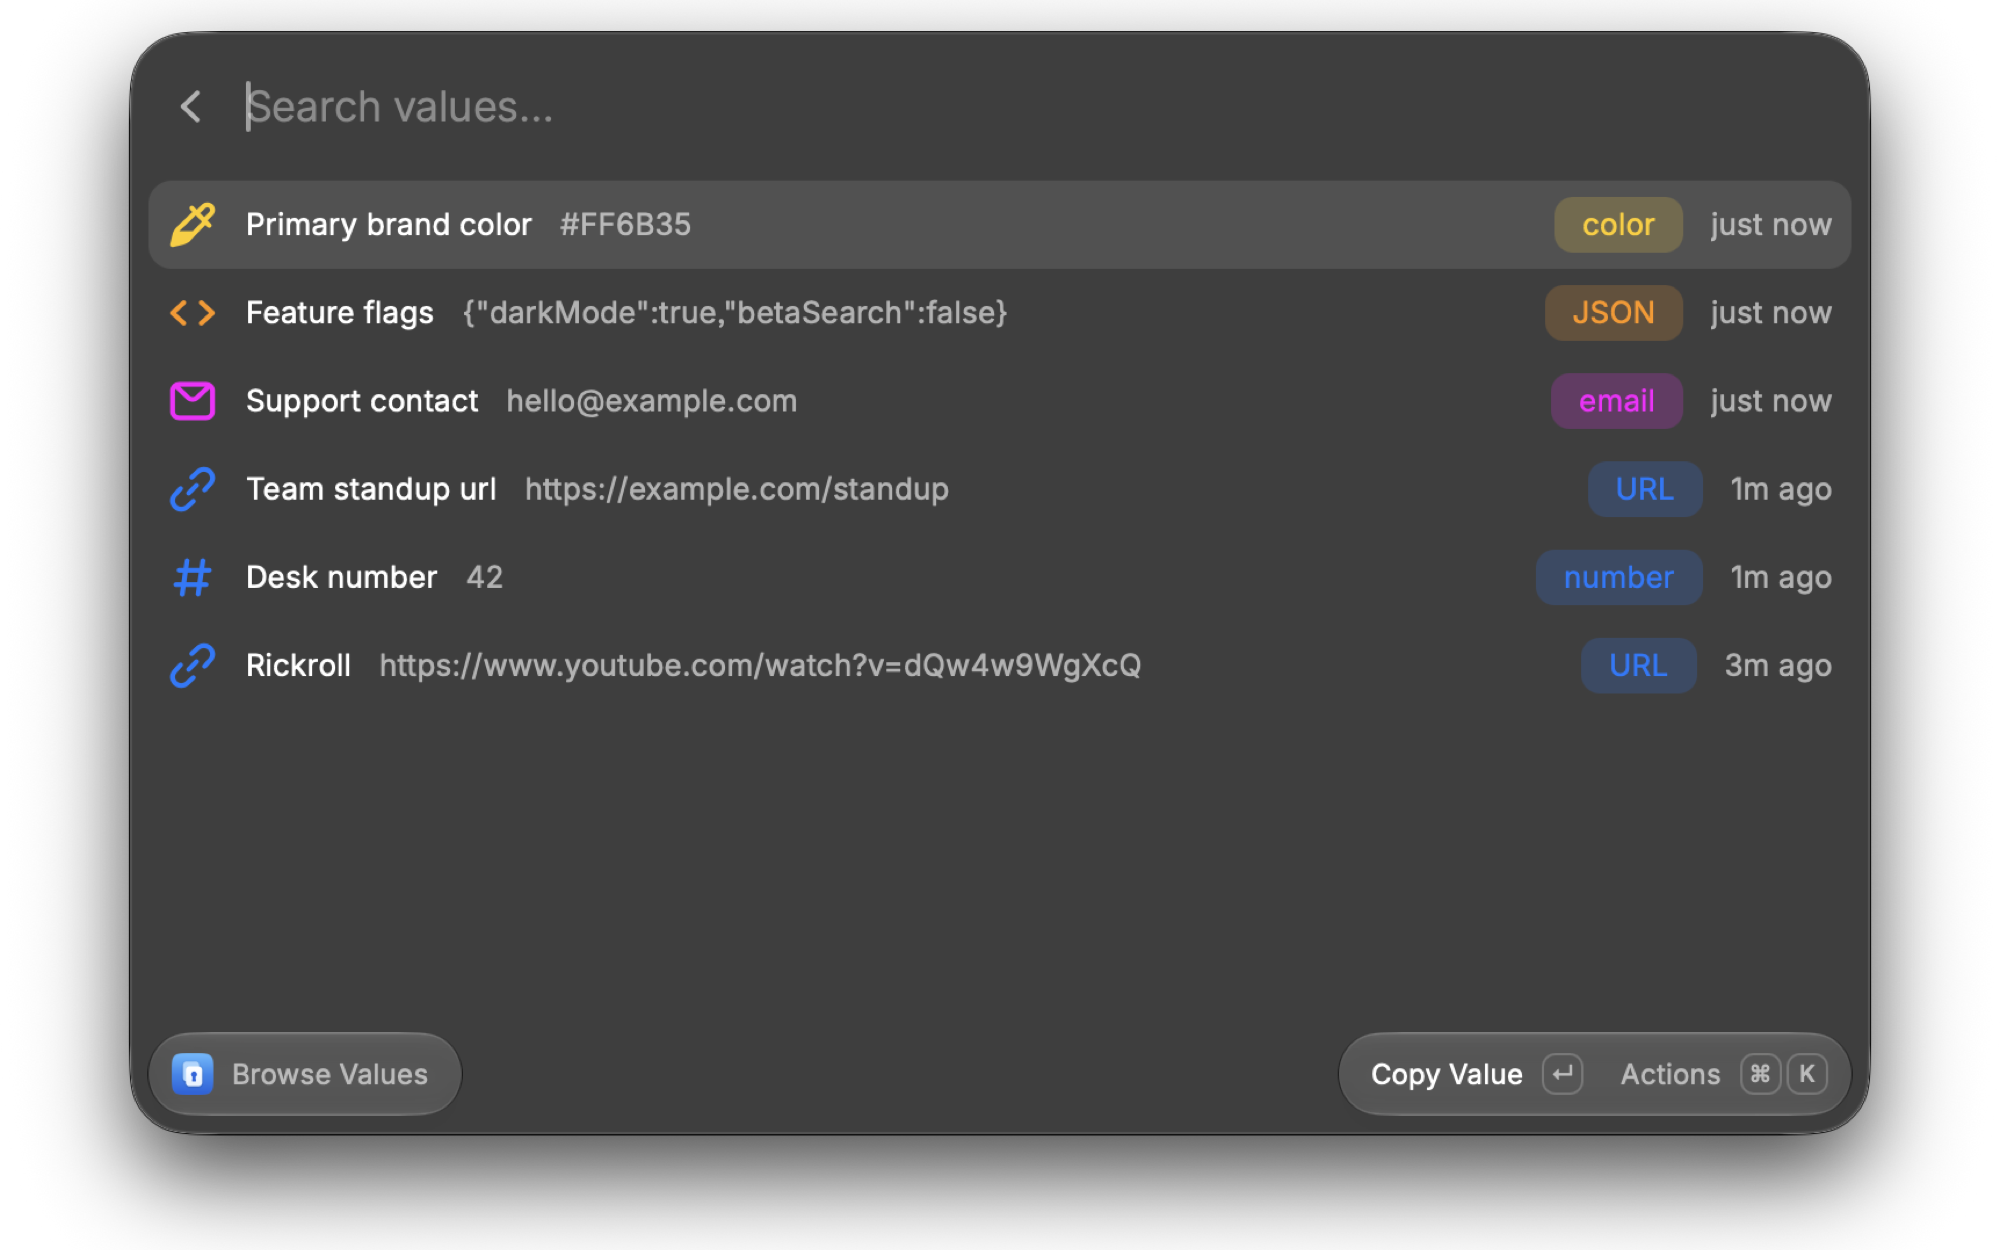
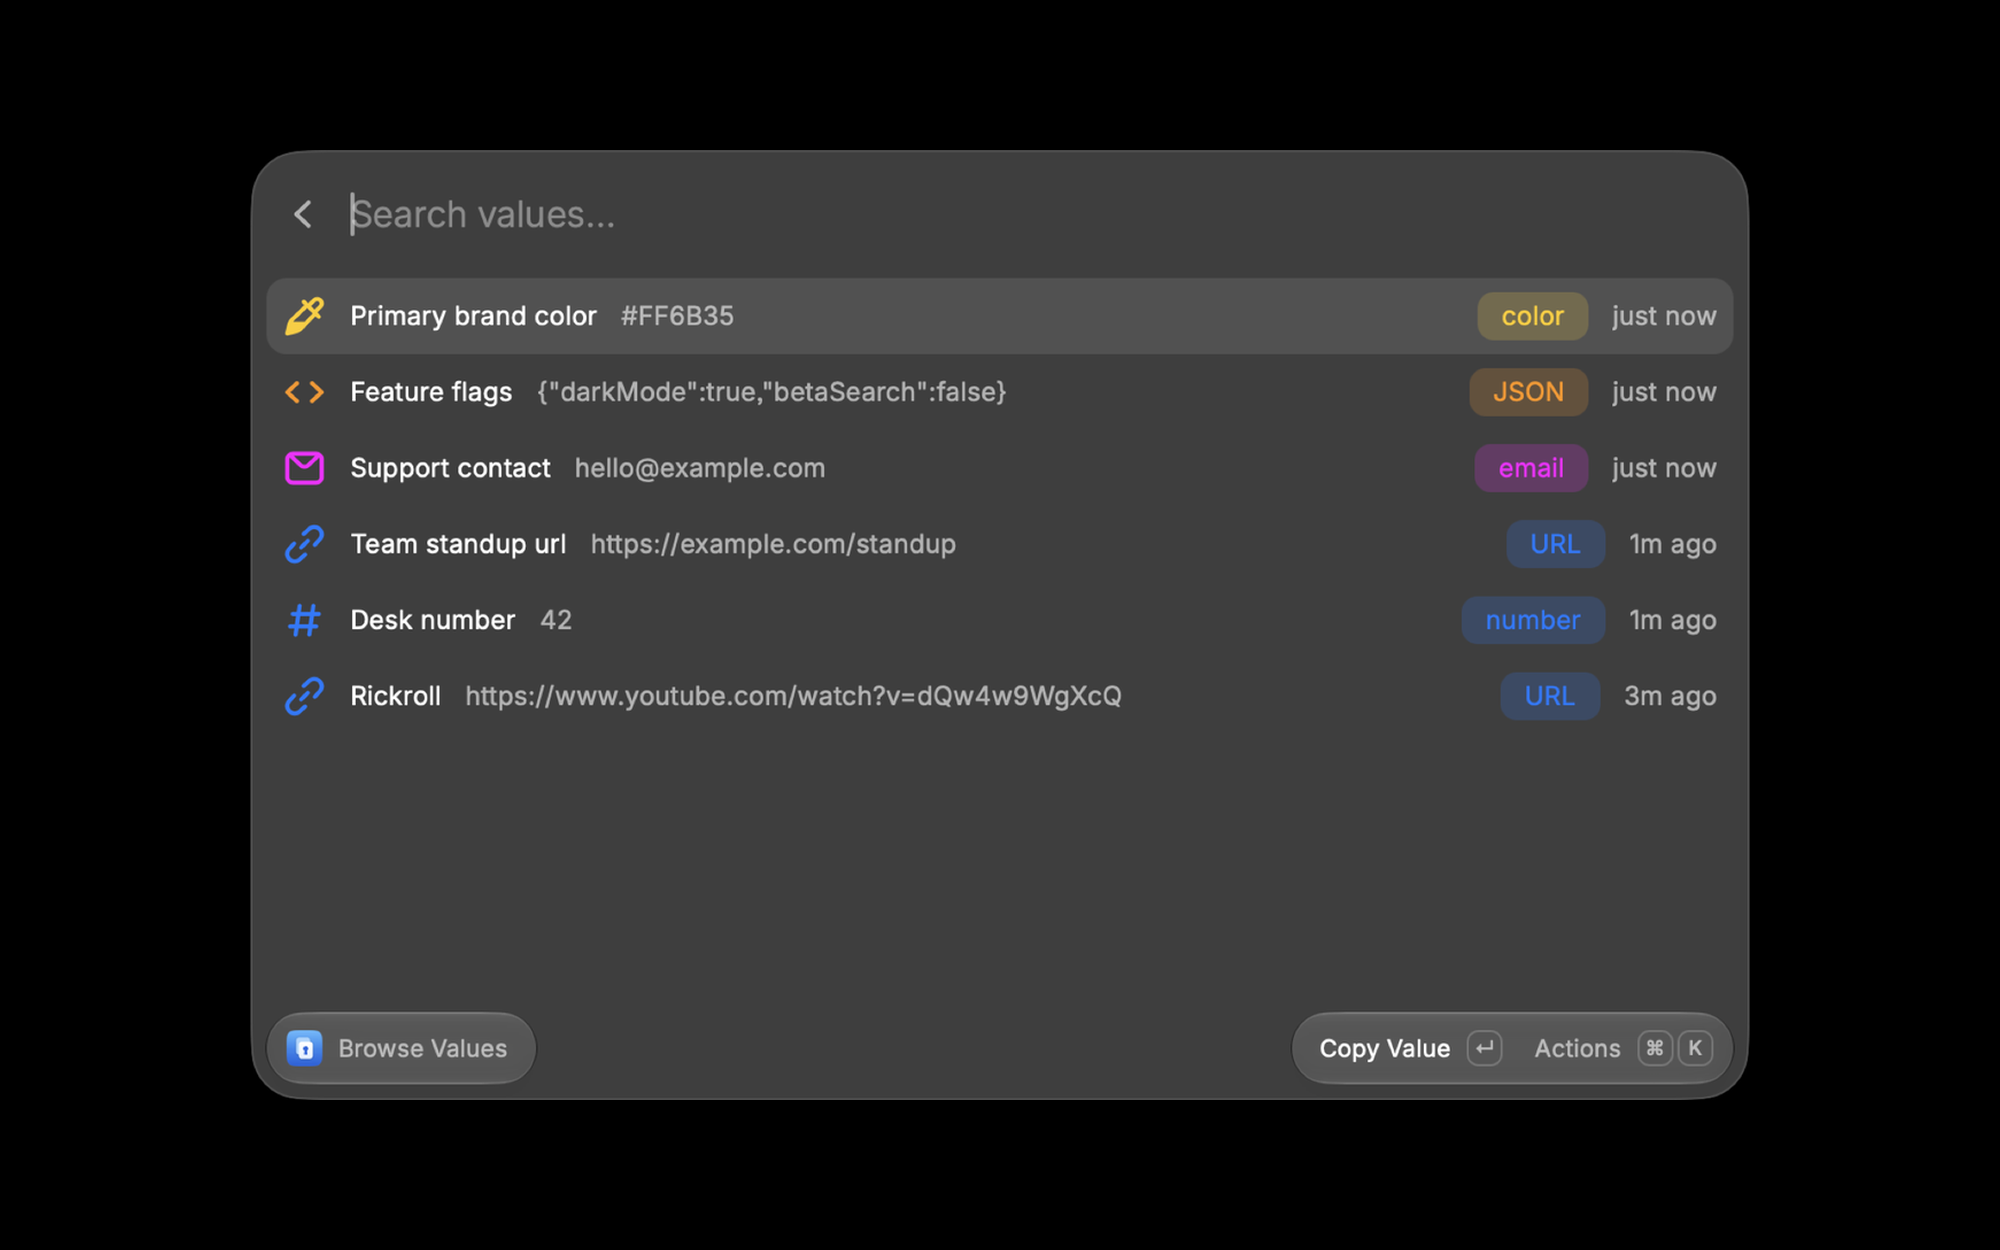
fix: address raycast store PR feedback

diff --git a/src/storage.ts b/src/storage.ts
@@ -1,14 +1,15 @@
 import { LocalStorage } from "@raycast/api";
 import { ValueEntry, ValueType } from "./types";
 
-const STORAGE_KEY = "entries";
+const LEGACY_KEY = "entries";
+const ENTRY_PREFIX = "entry:";
 
-let storageLock: Promise<void> = Promise.resolve();
+function keyFor(id: string): string {
+  return `${ENTRY_PREFIX}${id}`;
+}
 
 function isValidValueType(type: unknown): type is ValueType {
-  return (
-    typeof type === "string" && ["string", "number", "url", "email", "json", "color"].includes(type)
-  );
+  return typeof type === "string" && ["string", "number", "url", "email", "json", "color"].includes(type);
 }
 
 function isValidEntry(entry: unknown): entry is ValueEntry {
@@ -24,81 +25,74 @@ function isValidEntry(entry: unknown): entry is ValueEntry {
   );
 }
 
-/**
- * Retrieve all stored value entries from LocalStorage.
- * Returns an empty array if nothing is stored or if the data is corrupted.
- * Filters out entries that do not match the expected ValueEntry shape.
- */
-export async function getAllEntries(): Promise<ValueEntry[]> {
-  const raw = await LocalStorage.getItem<string>(STORAGE_KEY);
-  if (!raw) return [];
-
+function parseEntry(raw: unknown): ValueEntry | null {
+  if (typeof raw !== "string") return null;
   try {
     const parsed = JSON.parse(raw) as unknown;
-    if (!Array.isArray(parsed)) return [];
-    return parsed.filter(isValidEntry);
+    return isValidEntry(parsed) ? parsed : null;
   } catch {
-    return [];
+    return null;
   }
 }
 
 /**
- * Queue an async operation behind a shared lock to prevent race conditions
- * during concurrent read-modify-write cycles on LocalStorage.
+ * One-time migration from the original single-array format.
+ * Each legacy entry is fanned out to its own key; concurrent runs
+ * converge because they write identical content.
  */
-async function withLock<T>(operation: () => Promise<T>): Promise<T> {
-  // Swallow prior failures: a rejected lock must not deadlock every later write.
-  const release = storageLock.then(
-    () => {},
-    () => {},
-  );
-  let resolveLock: () => void;
-  storageLock = new Promise((resolve) => {
-    resolveLock = resolve;
-  });
-  await release;
+async function migrateLegacyStorage(): Promise<void> {
+  const raw = await LocalStorage.getItem<string>(LEGACY_KEY);
+  if (!raw) return;
   try {
-    return await operation();
-  } finally {
-    resolveLock!();
+    const parsed = JSON.parse(raw) as unknown;
+    if (Array.isArray(parsed)) {
+      for (const item of parsed) {
+        if (isValidEntry(item)) {
+          await LocalStorage.setItem(keyFor(item.id), JSON.stringify(item));
+        }
+      }
+    }
+  } catch {
+    // Corrupted legacy data is unrecoverable; drop it like the old reader did.
   }
+  await LocalStorage.removeItem(LEGACY_KEY);
 }
 
 /**
- * Append a new entry to the stored list.
- * This operation is atomic and serialized behind a lock.
+ * Retrieve all stored value entries.
+ * Entries live under individual keys, so concurrent writers in separate
+ * command processes cannot clobber each other the way a shared array could.
+ */
+export async function getAllEntries(): Promise<ValueEntry[]> {
+  await migrateLegacyStorage();
+  const items = await LocalStorage.allItems();
+  const entries: ValueEntry[] = [];
+  for (const [key, raw] of Object.entries(items)) {
+    if (!key.startsWith(ENTRY_PREFIX)) continue;
+    const entry = parseEntry(raw);
+    if (entry) entries.push(entry);
+  }
+  return entries;
+}
+
+/**
+ * Persist a new entry under its own key. Last writer wins per entry;
+ * entries never share a key, so saves cannot erase each other.
  */
 export async function saveEntry(entry: ValueEntry): Promise<void> {
-  await withLock(async () => {
-    const entries = await getAllEntries();
-    entries.push(entry);
-    await LocalStorage.setItem(STORAGE_KEY, JSON.stringify(entries));
-  });
+  await LocalStorage.setItem(keyFor(entry.id), JSON.stringify(entry));
 }
 
 /**
- * Update an existing entry in place, matching by id.
- * This operation is atomic and serialized behind a lock.
+ * Overwrite the stored entry with this id, or create it if absent.
  */
 export async function updateEntry(updated: ValueEntry): Promise<void> {
-  await withLock(async () => {
-    const entries = await getAllEntries();
-    const idx = entries.findIndex((e) => e.id === updated.id);
-    if (idx !== -1) {
-      entries[idx] = updated;
-      await LocalStorage.setItem(STORAGE_KEY, JSON.stringify(entries));
-    }
-  });
+  await LocalStorage.setItem(keyFor(updated.id), JSON.stringify(updated));
 }
 
 /**
- * Remove an entry from storage by its id.
- * This operation is atomic and serialized behind a lock.
+ * Remove the entry with this id. Missing entries are a no-op.
  */
 export async function deleteEntry(id: string): Promise<void> {
-  await withLock(async () => {
-    const entries = await getAllEntries();
-    const filtered = entries.filter((e) => e.id !== id);
-    await LocalStorage.setItem(STORAGE_KEY, JSON.stringify(filtered));
-  });
+  await LocalStorage.removeItem(keyFor(id));
 }

diff --git a/src/value-list-item.tsx b/src/value-list-item.tsx
@@ -1,7 +1,7 @@
-import { Action, ActionPanel, Clipboard, Icon, List, showHUD } from "@raycast/api";
-import { useCallback } from "react";
+import { Action, ActionPanel, Clipboard, Icon, Keyboard, List, showHUD, showToast, Toast } from "@raycast/api";
+import { useCallback, useState } from "react";
 import { ValueEntry } from "./types";
-import { formatRelativeTime, truncateValue } from "./utils";
+import { formatRelativeTime, getErrorMessage, truncateValue } from "./utils";
 import EditValueForm from "./edit-value";
 
 /** Metadata for each value type: icon, color, and display name. */
@@ -52,41 +52,61 @@ interface ValueListItemProps {
 
 export function ValueListItem({ entry, onDelete, onDuplicate, onUpdate }: ValueListItemProps) {
   const meta = TYPE_META[entry.type];
+  // Previews stay masked until explicitly revealed; the flag is session-only
+  // so a revealed secret never persists into the next Raycast launch.
+  const [revealed, setRevealed] = useState(false);
 
-  const handleCopy = useCallback(() => {
-    Clipboard.copy(entry.value);
-    showHUD("Copied!");
+  const handleCopy = useCallback(async () => {
+    try {
+      await Clipboard.copy(entry.value);
+      await showHUD("Copied!");
+    } catch (e) {
+      await showToast({ style: Toast.Style.Failure, title: "Failed to copy value", message: getErrorMessage(e) });
+    }
   }, [entry.value]);
 
-  const handlePaste = useCallback(() => {
-    Clipboard.paste(entry.value);
-    showHUD("Pasted!");
+  const handlePaste = useCallback(async () => {
+    try {
+      await Clipboard.paste(entry.value);
+      await showHUD("Pasted!");
+    } catch (e) {
+      await showToast({ style: Toast.Style.Failure, title: "Failed to paste value", message: getErrorMessage(e) });
+    }
   }, [entry.value]);
 
-  const handleCopyAsJson = useCallback(() => {
-    const json = JSON.stringify(
-      { label: entry.label, value: entry.value, type: entry.type },
-      null,
-      2,
-    );
-    Clipboard.copy(json);
-    showHUD("Copied as JSON!");
+  const handleCopyAsJson = useCallback(async () => {
+    try {
+      const json = JSON.stringify({ label: entry.label, value: entry.value, type: entry.type }, null, 2);
+      await Clipboard.copy(json);
+      await showHUD("Copied as JSON!");
+    } catch (e) {
+      await showToast({
+        style: Toast.Style.Failure,
+        title: "Failed to copy as JSON",
+        message: getErrorMessage(e),
+      });
+    }
   }, [entry.label, entry.value, entry.type]);
+
+  const handleToggleReveal = useCallback(() => setRevealed((prev) => !prev), []);
 
   return (
     <List.Item
       key={entry.id}
       title={entry.label}
-      subtitle={truncateValue(entry.value)}
+      subtitle={revealed ? truncateValue(entry.value) : "••••••••"}
       icon={{ source: meta.icon, tintColor: meta.color }}
-      accessories={[
-        { tag: { value: meta.name, color: meta.color } },
-        { text: formatRelativeTime(entry.updatedAt) },
-      ]}
+      accessories={[{ tag: { value: meta.name, color: meta.color } }, { text: formatRelativeTime(entry.updatedAt) }]}
       keywords={generateKeywords(entry.value)}
       actions={
         <ActionPanel>
           <Action icon={Icon.Clipboard} title="Copy Value" onAction={handleCopy} />
+          <Action
+            icon={Icon.Eye}
+            title={revealed ? "Hide Value" : "Show Value"}
+            shortcut={Keyboard.Shortcut.Common.ToggleQuickLook}
+            onAction={handleToggleReveal}
+          />
           <Action
             icon={Icon.Terminal}
             title="Paste Value"

diff --git a/src/value-form.tsx b/src/value-form.tsx
@@ -1,6 +1,6 @@
 import { Action, ActionPanel, Form, showToast, Toast, useNavigation } from "@raycast/api";
 import { FormValidation, useForm } from "@raycast/utils";
-import { useEffect } from "react";
+import { useEffect, useRef, useState } from "react";
 import { ValueEntry, detectType, parseValueType, VALUE_TYPE_OPTIONS } from "./types";
 
 interface FormValues {
@@ -17,13 +17,7 @@ interface Props {
   onSuccess?: () => void;
 }
 
-export default function ValueForm({
-  initialValues,
-  navigationTitle,
-  submitTitle,
-  onSubmit,
-  onSuccess,
-}: Props) {
+export default function ValueForm({ initialValues, navigationTitle, submitTitle, onSubmit, onSuccess }: Props) {
   const { pop } = useNavigation();
 
   const { handleSubmit, itemProps, values } = useForm<FormValues>({
@@ -59,11 +53,17 @@ export default function ValueForm({
 
   const detectedType = values.value ? detectType(values.value) : null;
 
+  // Auto-detection runs until the user picks a type by hand, and never
+  // rewrites a value that hasn't been edited (e.g. a saved type on the edit form).
+  const initialValueRef = useRef(initialValues.value);
+  const [typeTouched, setTypeTouched] = useState(false);
+
   useEffect(() => {
+    if (typeTouched || values.value === initialValueRef.current) return;
     if (detectedType && detectedType !== parseValueType(values.type)) {
       itemProps.type.onChange?.(detectedType);
     }
-  }, [detectedType, values.type]);
+  }, [values.value, values.type, typeTouched, detectedType, itemProps.type]);
 
   return (
     <Form
@@ -75,19 +75,17 @@ export default function ValueForm({
       navigationTitle={navigationTitle}
     >
       <Form.TextField title="Label" placeholder="My label" autoFocus {...itemProps.label} />
-      <Form.TextArea
-        title="Value"
-        placeholder="Paste or type the value to store..."
-        {...itemProps.value}
-      />
+      <Form.TextArea title="Value" placeholder="Paste or type the value to store..." {...itemProps.value} />
       <Form.Dropdown
         title="Type"
         info={
-          detectedType && detectedType !== parseValueType(values.type)
-            ? `Detected type: ${detectedType}`
-            : undefined
+          detectedType && detectedType !== parseValueType(values.type) ? `Detected type: ${detectedType}` : undefined
         }
         {...itemProps.type}
+        onChange={(newValue) => {
+          setTypeTouched(true);
+          itemProps.type.onChange?.(newValue);
+        }}
       >
         {VALUE_TYPE_OPTIONS.map((opt) => (
           <Form.Dropdown.Item key={opt.value} value={opt.value} title={opt.label} />

diff --git a/src/browse-values.tsx b/src/browse-values.tsx
@@ -107,11 +107,7 @@ export default function Command(props: LaunchProps<{ arguments: { query?: string
       }
     >
       {sortedEntries.length === 0 ? (
-        <List.EmptyView
-          icon={Icon.Box}
-          title="No values yet"
-          description="Press ⌘N to add your first value."
-        />
+        <List.EmptyView icon={Icon.Box} title="No values yet" description="Press ⌘N to add your first value." />
       ) : (
         sortedEntries.map((entry) => (
           <ValueListItem

diff --git a/src/types.ts b/src/types.ts
@@ -22,7 +22,7 @@ export function detectType(value: string): ValueType {
   const trimmed = value.trim();
   if (trimmed.length === 0) return "string";
 
-  if (/^https?:\/\/[^\s]+$/.test(trimmed)) {
+  if (/^https?:\/\/[^\s]+$/i.test(trimmed)) {
     return "url";
   }
 

diff --git a/README.md b/README.md
@@ -8,11 +8,12 @@ Value Vault is a personal value store for Raycast. It solves the common problem 
 
 ### Browse Values
 
-Search all your saved values with Raycast's built-in fuzzy filtering. Each entry shows its label, a truncated preview of the value, its type badge, and a relative timestamp.
+Search all your saved values with Raycast's built-in fuzzy filtering. Each entry shows its label, a masked preview of the value (revealable), its type badge, and a relative timestamp.
 
 | Action | Shortcut | Description |
 |--------|----------|-------------|
 | Copy Value | `↵` | Copies the value to your clipboard |
+| Show / Hide Value | `⌘Y` | Reveals or re-masks the value preview |
 | Paste Value | `⌘↵` | Pastes the value into the frontmost app |
 | Copy as JSON | `⌘⇧C` | Copies `{label, value, type}` as JSON |
 | Edit Value | `⌘E` | Opens the edit form |
@@ -51,8 +52,8 @@ Search for **Value Vault** in the Raycast Store and install with one click.
 ```bash
 git clone https://github.com/seppealaerts/value-vault.ringtail.dev.git
 cd value-vault.ringtail.dev
-pnpm install
-pnpm build
+npm install
+npm run build
 ```
 
 Then in Raycast:
@@ -63,5 +64,5 @@ Then in Raycast:
 For development with hot-reload:
 
 ```bash
-pnpm dev
+npm run dev
 ```
